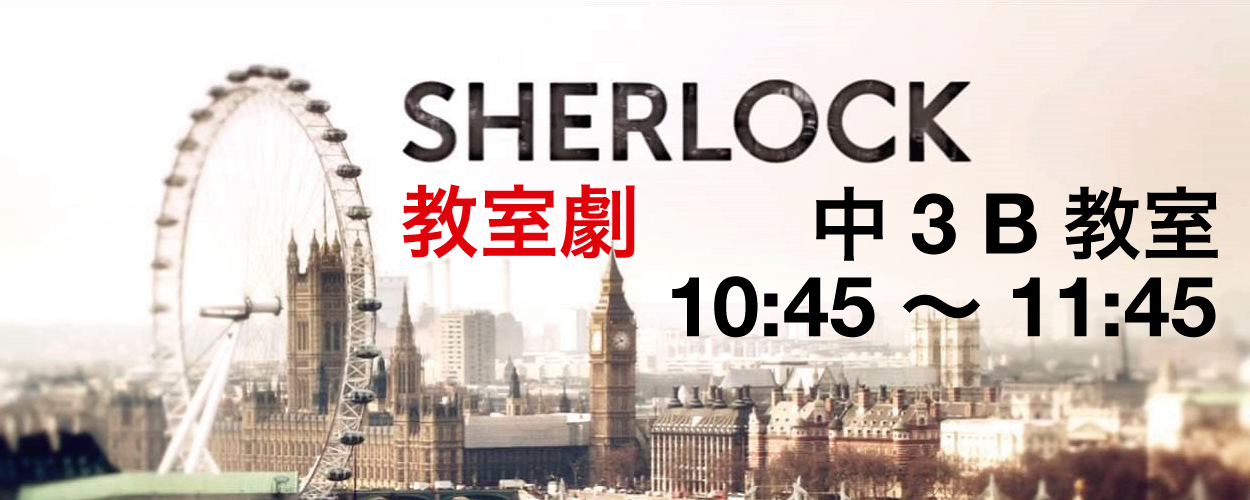
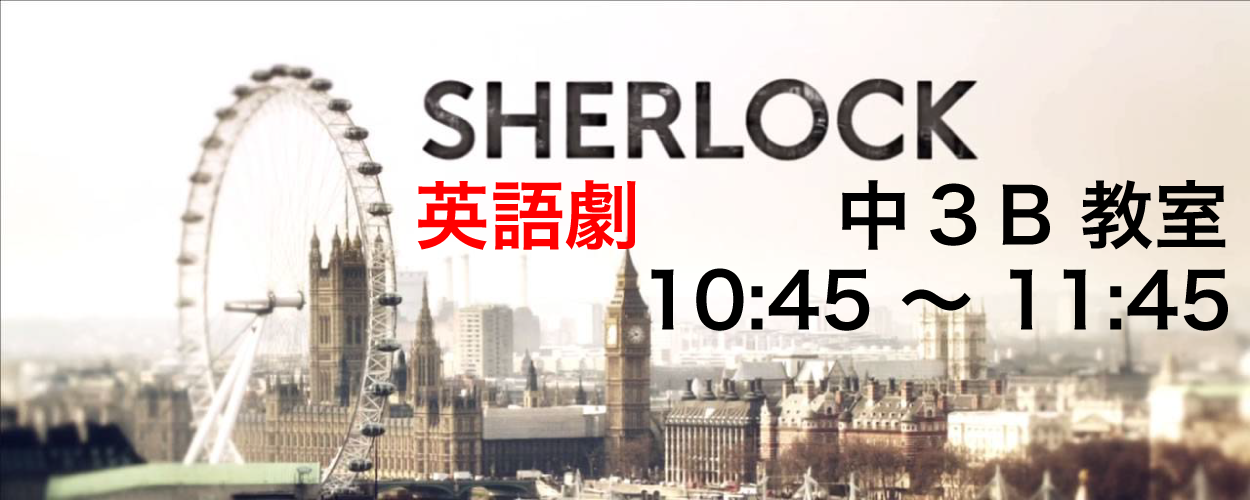
バナー画像実装完成

diff --git a/Seiko Festa 57th/ViewController.m b/Seiko Festa 57th/ViewController.m
@@ -27,7 +27,33 @@
     imageNumber = 0;
     imageNumber2 = 1;
     
-    organizationFeaturedImages = @[@"Flat Flight バナー1.jpg", @"ボールぽこぽこ バナー.jpg", @"ミュージックサロン バナー.JPG"];
+    NSDate *date = [NSDate date];
+    NSDateFormatter *formatter = [[NSDateFormatter alloc] init];
+    [formatter setDateFormat:@"yyyy/MM/dd HH:mm:ss"];
+    NSString *dateString = [formatter stringFromDate:date];
+    month=[[dateString substringWithRange:NSMakeRange(5, 2)]intValue];
+    day=[[dateString substringWithRange:NSMakeRange(8, 2)]intValue];
+    hour=[[dateString substringWithRange:NSMakeRange(11, 2)]intValue];
+    minute=[[dateString substringWithRange:NSMakeRange(14, 2)]intValue];
+    
+    monthC = month;
+    dayC = day;
+    hourC = hour;
+    minuteC =minute;
+    
+    if ((month == 4 && day < 4) || (month == 4 && day == 4 && hour <= 9)) {
+        
+        organizationFeaturedImages = @[@"英語劇 教室劇 バナー1.png", @"ミュージックサロン バナー1.JPG", @"S-O-S バナー1.png", @"恋愛偏差値 バナー1.jpg", @"Flat Flight バナー1.jpg", @"WEAK-END バナー1.png", @"聖光祭からの脱出 バナー1.JPG", @"M&A バナー1.jpg", @"コミュ力の窓 バナー1.png", @"Showtime! バナー1.JPG", @"Яooz-Leef バナー1.jpg", @"のど自慢 バナー1.JPG", @"ボールぽこぽこ バナー.jpg", @"英語劇 バナー1.png", @"ぽんでっくす バナー1.jpg", @"地学天文学部 バナー1.jpg", @"Mr.聖光 バナー1.jpg", @"春夜祭 バナー.png"];
+        
+    }else if ((month == 4 && day == 4 && ((hour == 17 && minute >= 30) || (hour >= 18))) || (month == 4 && day == 5 && hour <= 9) ){
+        
+        organizationFeaturedImages = @[@"英語劇 教室劇 バナー2.png", @"Million Dollars バナー.jpg", @"弦楽オーケストラ部 バナー.png", @"恋愛偏差値 バナー2.jpg", @"剣道部 バナー.jpg", @"コミュ力の窓 バナー2.png", @"ぽんでっくす バナー2.jpg", @"ミュージックサロン バナー2.JPG", @"S-O-S バナー2.png", @"M&A バナー2.jpg", @"英語劇 バナー2.png", @"Showtime! バナー2.JPG", @"WEAK-END バナー2.png", @"聖光祭からの脱出 バナー2.JPG", @"Flat Flight バナー2.jpg", @"のど自慢 バナー2.JPG", @"Яooz-Leef バナー2.jpg", @"Mr.聖光 バナー2.jpg", @"吹奏楽部 バナー.jpg", @"地学天文学部 バナー2.jpg", @"フォークダンス バナー.jpg", @"Grand Finale バナー.jpg"];
+        
+    }else {
+        
+    }
+    
+    
     
     featuredImageButton = [[UIButton alloc]initWithFrame:CGRectMake(self.view.bounds.size.width, 0, self.view.bounds.size.width, self.view.bounds.size.width * 0.4)];
     featuredImageButton2 = [[UIButton alloc]initWithFrame:CGRectMake(self.view.bounds.size.width, 0, self.view.bounds.size.width, self.view.bounds.size.width * 0.4)];
@@ -1423,6 +1449,10 @@
     
     //CGRectMake(spaceLeft, 50 + length + spaceH + buttonLabelFont + 32, self.view.bounds.size.width - 15, 0.5)
     
+    UIView *horizontal= [[UIView alloc] initWithFrame:CGRectMake(0, self.view.bounds.size.width * 0.4, self.view.bounds.size.width, 1)];
+    horizontal.backgroundColor = [UIColor colorWithRed:211.0/255.0 green:211.0/255.0 blue:211.0/255.0 alpha:1.0];
+    [self.view addSubview:horizontal];
+    
 }
 
 -(void)viewDidDisappear:(BOOL)animated {
@@ -1440,6 +1470,91 @@
 }
 
 -(void)featuredImageIn{
+    
+    NSDate *date = [NSDate date];
+    NSDateFormatter *formatter = [[NSDateFormatter alloc] init];
+    [formatter setDateFormat:@"yyyy/MM/dd HH:mm:ss"];
+    NSString *dateString = [formatter stringFromDate:date];
+    month=[[dateString substringWithRange:NSMakeRange(5, 2)]intValue];
+    day=[[dateString substringWithRange:NSMakeRange(8, 2)]intValue];
+    hour=[[dateString substringWithRange:NSMakeRange(11, 2)]intValue];
+    minute=[[dateString substringWithRange:NSMakeRange(14, 2)]intValue];
+
+    
+    if (month == 4 && day == 4) {
+        
+        if (hour == 10 && 0 <= minute && minute <= 29) {
+            organizationFeaturedImages = @[@"英語劇 教室劇 バナー1.png", @"ミュージックサロン バナー1.JPG", @"S-O-S バナー1.png", @"恋愛偏差値 バナー1.jpg"];
+        }else if (hour == 10 && 30 <= minute && minute <= 59) {
+            organizationFeaturedImages = @[@"英語劇 教室劇 バナー1.png", @"ミュージックサロン バナー1.JPG", @"S-O-S バナー1.png", @"Flat Flight バナー1.jpg"];
+        }else if (hour == 11 && 0 <= minute && minute <= 29) {
+            organizationFeaturedImages = @[@"英語劇 教室劇 バナー1.png", @"ミュージックサロン バナー1.JPG", @"Flat Flight バナー1.jpg", @"WEAK-END バナー1.png"];
+        }else if (hour == 11 && 30 <= minute && minute <= 59) {
+            organizationFeaturedImages = @[@"英語劇 教室劇 バナー1.png", @"ミュージックサロン バナー1.JPG", @"WEAK-END バナー1.png", @"M&A バナー1.jpg"];
+        }else if (hour == 12 && 0 <= minute && minute <= 29) {
+            organizationFeaturedImages = @[@"ミュージックサロン バナー1.JPG", @"M&A バナー1.jpg", @"コミュ力の窓 バナー1.png", @"聖光祭からの脱出 バナー1.JPG"];
+        }else if (hour == 12 && 30 <= minute && minute <= 59) {
+            organizationFeaturedImages = @[@"ミュージックサロン バナー1.JPG", @"コミュ力の窓 バナー1.png", @"Showtime! バナー1.JPG", @"聖光祭からの脱出 バナー1.JPG"];
+        }else if (hour == 13 && 0 <= minute && minute <= 29) {
+            organizationFeaturedImages = @[@"ミュージックサロン バナー1.JPG", @"Showtime! バナー1.JPG", @"Яooz-Leef バナー1.jpg", @"のど自慢 バナー1.JPG", @"ボールぽこぽこ バナー.jpg"];
+        }else if (hour == 13 && 30 <= minute && minute <= 59) {
+            organizationFeaturedImages = @[@"英語劇 バナー1.png", @"ミュージックサロン バナー1.JPG", @"Яooz-Leef バナー1.jpg", @"のど自慢 バナー1.JPG", @"ボールぽこぽこ バナー.jpg", @"ぽんでっくす バナー1.jpg", @"地学天文学部 バナー1.jpg"];
+        }else if (hour == 14 && 0 <= minute && minute <= 29) {
+            organizationFeaturedImages = @[@"英語劇 バナー1.png", @"ミュージックサロン バナー1.JPG", @"のど自慢 バナー1.JPG",@"ぽんでっくす バナー1.jpg", @"地学天文学部 バナー1.jpg", @"Mr.聖光 バナー1.jpg"];
+        }else if (hour == 14 && 30 <= minute && minute <= 59) {
+            organizationFeaturedImages = @[@"英語劇 バナー1.png", @"ミュージックサロン バナー1.JPG", @"Mr.聖光 バナー1.jpg", @"春夜祭 バナー.png"];
+        }else if (hour == 15 && 0 <= minute && minute <= 29) {
+            organizationFeaturedImages = @[@"英語劇 バナー1.png", @"春夜祭 バナー.png"];
+        }else if ((hour == 15 && 30 <= minute && minute <= 59) || (hour == 16 && 0 <= minute && minute <= 59)) {
+            organizationFeaturedImages = @[@"春夜祭 バナー.png"];
+        }else if (hour == 17 && 0 <= minute && minute <=29){
+            
+        }
+    
+    }else if (month == 4 && day == 5) {
+        
+        if (hour == 10 && 0 <= minute && minute <= 29) {
+            organizationFeaturedImages = @[@"英語劇 教室劇 バナー2.png", @"Million Dollars バナー.jpg", @"弦楽オーケストラ部 バナー.png", @"恋愛偏差値 バナー2.jpg", @"剣道部 バナー.jpg"];
+        }else if (hour == 10 && 30 <= minute && minute <= 59) {
+            organizationFeaturedImages = @[@"英語劇 教室劇 バナー2.png", @"Million Dollars バナー.jpg", @"弦楽オーケストラ部 バナー.png", @"コミュ力の窓 バナー2.png", @"ぽんでっくす バナー2.jpg", @"ミュージックサロン バナー2.JPG", @"剣道部 バナー.jpg"];
+        }else if (hour == 11 && 0 <= minute && minute <= 29) {
+            organizationFeaturedImages = @[@"英語劇 教室劇 バナー2.png", @"弦楽オーケストラ部 バナー.png", @"コミュ力の窓 バナー2.png",@"ぽんでっくす バナー2.jpg", @"ミュージックサロン バナー2.JPG", @"S-O-S バナー2.png", @"剣道部 バナー.jpg"];
+        }else if (hour == 11 && 30 <= minute && minute <= 59) {
+            organizationFeaturedImages = @[@"英語劇 教室劇 バナー2.png", @"M&A バナー2.jpg", @"S-O-S バナー2.png", @"ミュージックサロン バナー2.JPG", @"聖光祭からの脱出 バナー2.JPG", @"剣道部 バナー.jpg"];
+        }else if (hour == 12 && 0 <= minute && minute <= 29) {
+            organizationFeaturedImages = @[@"英語劇 バナー2.png", @"M&A バナー2.jpg", @"Showtime! バナー2.JPG", @"WEAK-END バナー2.png", @"ミュージックサロン バナー2.JPG", @"剣道部 バナー.jpg"];
+        }else if (hour == 12 && 30 <= minute && minute <= 59) {
+            organizationFeaturedImages = @[@"英語劇 バナー2.png", @"WEAK-END バナー2.png", @"Showtime! バナー2.JPG", @"Flat Flight バナー2.jpg"];
+        }else if (hour == 13 && 0 <= minute && minute <= 29) {
+            organizationFeaturedImages = @[@"英語劇 バナー2.png", @"Яooz-Leef バナー2.jpg", @"のど自慢 バナー2.JPG", @"聖光祭からの脱出 バナー2.JPG"];
+        }else if (hour == 13 && 30 <= minute && minute <= 59) {
+            organizationFeaturedImages = @[@"英語劇 バナー2.png", @"Яooz-Leef バナー2.jpg", @"のど自慢 バナー2.JPG", @"Mr.聖光 バナー2.jpg", @"吹奏楽部 バナー.jpg", @"地学天文学部 バナー2.jpg", @"ミュージックサロン バナー2.JPG"];
+        }else if (hour == 14 && 0 <= minute && minute <= 29) {
+            organizationFeaturedImages = @[@"Mr.聖光 バナー2.jpg", @"吹奏楽部 バナー.jpg", @"地学天文学部 バナー2.jpg", @"ミュージックサロン バナー2.JPG", @"フォークダンス バナー.jpg"];
+        }else if (hour == 14 && 30 <= minute && minute <= 59) {
+            organizationFeaturedImages = @[@"Mr.聖光 バナー2.jpg", @"吹奏楽部 バナー.jpg", @"フォークダンス バナー.jpg", @"Grand Finale バナー.jpg"];
+        }else if (hour == 15 || hour == 16) {
+            organizationFeaturedImages = @[@"Grand Finale バナー.jpg"];
+        }else if (hour >= 17) {
+            
+        }
+        
+    }
+    
+    if (month == monthC && day == dayC && hour == hourC && minute == minuteC) {
+        
+    } else {
+        
+        monthC = month;
+        dayC = day;
+        hourC = hour;
+        minuteC =minute;
+        
+        imageNumber = 0;
+        imageNumber2 = 1;
+        
+    }
+    
     
     if (imageNumber == organizationFeaturedImages.count) {
         

diff --git a/Seiko Festa 57th/ViewController.h b/Seiko Festa 57th/ViewController.h
@@ -266,6 +266,16 @@
     UIButton *Performance;
     UIButton *Stage;
     
+    int month;
+    int day;
+    int hour;
+    int minute;
+    
+    int monthC;
+    int dayC;
+    int hourC;
+    int minuteC;
+    
 }
 
 @property(nonatomic) int flag;
